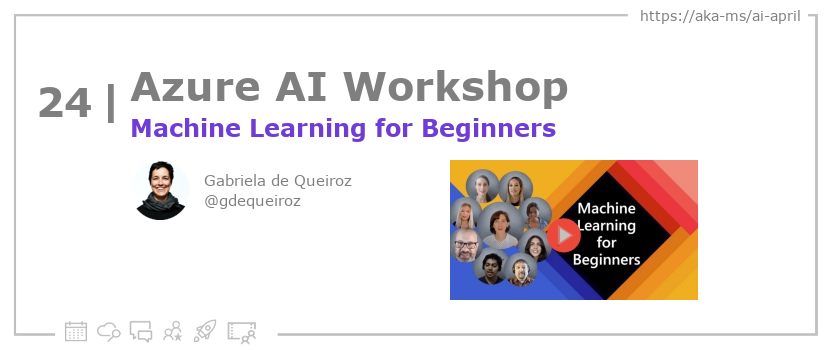
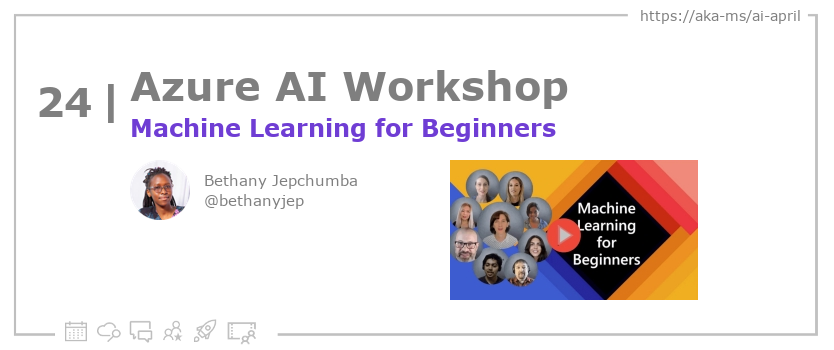
docs

Changed region(s): [[0.2494, 0.4857, 0.4365, 0.6], [0.1559, 0.4571, 0.2182, 0.6286]]

diff --git a/website/blog/2023-aia/2023-04-26-ml-ai-workshops/index.md b/website/blog/2023-aia/2023-04-26-ml-ai-workshops/index.md
@@ -1,7 +1,7 @@
 ---
 slug: 2023-day24
 title: "24. 🏭Machine Learning for Beginners"
-authors: ['Gabriela']
+authors: ['Bethany']
 draft: false
 hide_table_of_contents: false
 toc_min_heading_level: 2

diff --git a/website/blog/2023-aia/2023-04-25-data-science-beginners/index.md b/website/blog/2023-aia/2023-04-25-data-science-beginners/index.md
@@ -1,7 +1,7 @@
 ---
 slug: 2023-day23
 title: "23. 🏭Data Science for beginners"
-authors: ['Gabriela']
+authors: ['Bethany']
 draft: false
 hide_table_of_contents: false
 toc_min_heading_level: 2
